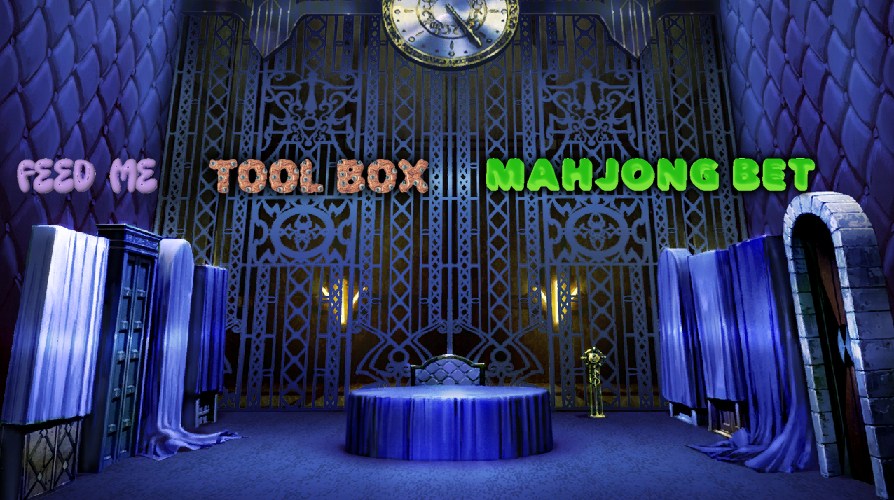
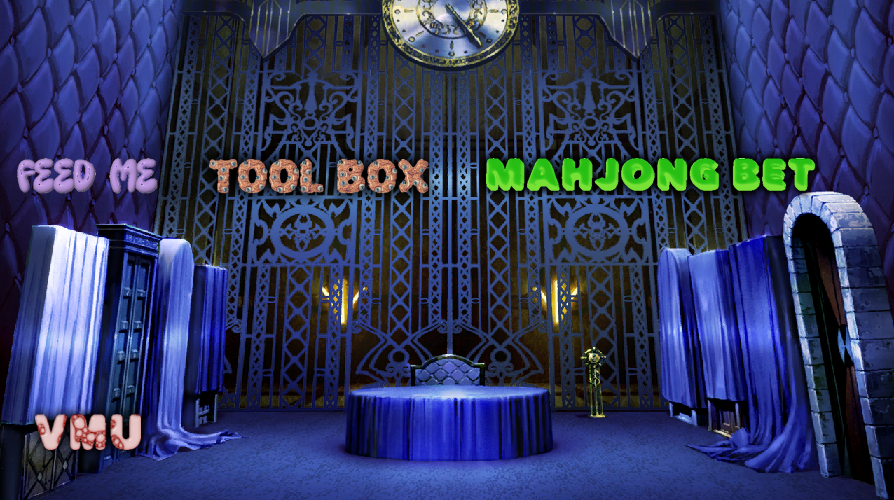
Finished VMU app and added launcher

Changed region(s): [[0.0302, 0.81, 0.1812, 0.93]]

diff --git a/GardenForms/ThePaintedWorld.Designer.cs b/GardenForms/ThePaintedWorld.Designer.cs
@@ -35,12 +35,15 @@
             trackBar1 = new TrackBar();
             locationControl = new TrackBar();
             scatterAmount = new TrackBar();
+            colourControl = new PictureBox();
+            ColourButton = new ReaLTaiizor.Controls.HopeButton();
             ((System.ComponentModel.ISupportInitialize)VMU).BeginInit();
             ((System.ComponentModel.ISupportInitialize)backClickableSection).BeginInit();
             ((System.ComponentModel.ISupportInitialize)drawingZone).BeginInit();
             ((System.ComponentModel.ISupportInitialize)trackBar1).BeginInit();
             ((System.ComponentModel.ISupportInitialize)locationControl).BeginInit();
             ((System.ComponentModel.ISupportInitialize)scatterAmount).BeginInit();
+            ((System.ComponentModel.ISupportInitialize)colourControl).BeginInit();
             SuspendLayout();
             // 
             // VMU
@@ -64,6 +67,7 @@
             backClickableSection.TabIndex = 1;
             backClickableSection.TabStop = false;
             backClickableSection.Click += backClickableSection_Click;
+            backClickableSection.MouseEnter += backButton_Enter;
             backClickableSection.MouseLeave += backButton_StopHover;
             backClickableSection.MouseHover += backButton_Hover;
             // 
@@ -119,12 +123,44 @@
             scatterAmount.TickStyle = TickStyle.None;
             scatterAmount.Scroll += scatterAmount_Scroll;
             // 
+            // colourControl
+            // 
+            colourControl.Image = Properties.Resources.colour;
+            colourControl.Location = new Point(227, 139);
+            colourControl.Name = "colourControl";
+            colourControl.Size = new Size(86, 30);
+            colourControl.TabIndex = 6;
+            colourControl.TabStop = false;
+            colourControl.Click += colourControl_Click;
+            // 
+            // ColourButton
+            // 
+            ColourButton.BorderColor = Color.FromArgb(220, 223, 230);
+            ColourButton.ButtonType = ReaLTaiizor.Util.HopeButtonType.Primary;
+            ColourButton.DangerColor = Color.FromArgb(245, 108, 108);
+            ColourButton.DefaultColor = Color.FromArgb(255, 255, 255);
+            ColourButton.Font = new Font("MS Mincho", 12F, FontStyle.Regular, GraphicsUnit.Point, 0);
+            ColourButton.HoverTextColor = Color.FromArgb(48, 49, 51);
+            ColourButton.InfoColor = Color.FromArgb(144, 147, 153);
+            ColourButton.Location = new Point(389, 120);
+            ColourButton.Name = "ColourButton";
+            ColourButton.PrimaryColor = Color.FromArgb(64, 158, 255);
+            ColourButton.Size = new Size(73, 40);
+            ColourButton.SuccessColor = Color.FromArgb(103, 194, 58);
+            ColourButton.TabIndex = 7;
+            ColourButton.Text = "Colour";
+            ColourButton.TextColor = Color.White;
+            ColourButton.WarningColor = Color.FromArgb(230, 162, 60);
+            ColourButton.Click += ColourButton_Click;
+            // 
             // ThePaintedWorld
             // 
             AutoScaleDimensions = new SizeF(7F, 15F);
             AutoScaleMode = AutoScaleMode.Font;
             BackgroundImage = Properties.Resources.macwindowmask;
             ClientSize = new Size(546, 653);
+            Controls.Add(ColourButton);
+            Controls.Add(colourControl);
             Controls.Add(locationControl);
             Controls.Add(trackBar1);
             Controls.Add(drawingZone);
@@ -143,6 +179,7 @@
             ((System.ComponentModel.ISupportInitialize)trackBar1).EndInit();
             ((System.ComponentModel.ISupportInitialize)locationControl).EndInit();
             ((System.ComponentModel.ISupportInitialize)scatterAmount).EndInit();
+            ((System.ComponentModel.ISupportInitialize)colourControl).EndInit();
             ResumeLayout(false);
             PerformLayout();
         }
@@ -156,5 +193,7 @@
         private TrackBar trackBar1;
         private TrackBar locationControl;
         private TrackBar scatterAmount;
+        private PictureBox colourControl;
+        private ReaLTaiizor.Controls.HopeButton ColourButton;
     }
 }

diff --git a/GardenForms/MainScreen.Designer.cs b/GardenForms/MainScreen.Designer.cs
@@ -33,17 +33,19 @@
             FeedMeCard = new PictureBox();
             GardenToolsBox = new PictureBox();
             mahjongBetBox = new PictureBox();
+            VMUcard = new PictureBox();
             ((System.ComponentModel.ISupportInitialize)pictureBox1).BeginInit();
             ((System.ComponentModel.ISupportInitialize)FeedMeCard).BeginInit();
             ((System.ComponentModel.ISupportInitialize)GardenToolsBox).BeginInit();
             ((System.ComponentModel.ISupportInitialize)mahjongBetBox).BeginInit();
+            ((System.ComponentModel.ISupportInitialize)VMUcard).BeginInit();
             SuspendLayout();
             // 
             // pictureBox1
             // 
             pictureBox1.BackgroundImage = Properties.Resources.bg0061;
             pictureBox1.Dock = DockStyle.Fill;
-            pictureBox1.Image = Properties.Resources.bg006;
+            pictureBox1.Image = Properties.Resources.bg00611;
             pictureBox1.Location = new Point(0, 0);
             pictureBox1.Name = "pictureBox1";
             pictureBox1.Size = new Size(874, 457);
@@ -61,6 +63,7 @@
             FeedMeCard.TabIndex = 2;
             FeedMeCard.TabStop = false;
             FeedMeCard.Click += FeedMeCard_Click;
+            FeedMeCard.MouseEnter += FeedMeCard_Enter;
             FeedMeCard.MouseLeave += FeedMeCard_Leave;
             FeedMeCard.MouseHover += FeedMeCard_Hover;
             // 
@@ -74,6 +77,7 @@
             GardenToolsBox.TabIndex = 3;
             GardenToolsBox.TabStop = false;
             GardenToolsBox.Click += GardenToolsBox_Click;
+            GardenToolsBox.MouseEnter += GardenToolsBox_Enter;
             GardenToolsBox.MouseLeave += GardenToolsBox_Leave;
             GardenToolsBox.MouseHover += GardenToolsBox_Hover;
             // 
@@ -87,14 +91,29 @@
             mahjongBetBox.TabIndex = 4;
             mahjongBetBox.TabStop = false;
             mahjongBetBox.Click += mahjongBetBox_Click;
+            mahjongBetBox.MouseEnter += mahjongBetBox_Enter;
             mahjongBetBox.MouseLeave += mahjongBetBox_MouseLeave;
             mahjongBetBox.MouseHover += mahjongBetBox_Hover;
+            // 
+            // VMUcard
+            // 
+            VMUcard.BackgroundImage = Properties.Resources.MahjongCard;
+            VMUcard.Image = Properties.Resources.VMUCard;
+            VMUcard.Location = new Point(39, 274);
+            VMUcard.Name = "VMUcard";
+            VMUcard.Size = new Size(98, 126);
+            VMUcard.TabIndex = 5;
+            VMUcard.TabStop = false;
+            VMUcard.Click += VMUcard_Click;
+            VMUcard.MouseEnter += VMU_MouseEnter;
+            VMUcard.MouseLeave += VMU_MouseLeave;
             // 
             // MainScreen
             // 
             AutoScaleDimensions = new SizeF(7F, 15F);
             AutoScaleMode = AutoScaleMode.Font;
             ClientSize = new Size(874, 457);
+            Controls.Add(VMUcard);
             Controls.Add(mahjongBetBox);
             Controls.Add(GardenToolsBox);
             Controls.Add(FeedMeCard);
@@ -111,6 +130,7 @@
             ((System.ComponentModel.ISupportInitialize)FeedMeCard).EndInit();
             ((System.ComponentModel.ISupportInitialize)GardenToolsBox).EndInit();
             ((System.ComponentModel.ISupportInitialize)mahjongBetBox).EndInit();
+            ((System.ComponentModel.ISupportInitialize)VMUcard).EndInit();
             ResumeLayout(false);
         }
 
@@ -119,5 +139,6 @@
         private PictureBox FeedMeCard;
         private PictureBox GardenToolsBox;
         private PictureBox mahjongBetBox;
+        private PictureBox VMUcard;
     }
 }

diff --git a/GardenForms/ThePaintedWorld.cs b/GardenForms/ThePaintedWorld.cs
@@ -24,6 +24,7 @@ namespace GardenForms
         int currentPositionDown = 1;
         float currentTranslationx = 0F;
         float currentTranslationy = 0F;
+        int colourSelection = 1;
         private void VMU_MouseDown(object sender, MouseEventArgs e)
         {
             mouseDown = true;
@@ -91,13 +92,31 @@ namespace GardenForms
             Rectangle rect = new Rectangle(currentPositionLeft, currentPositionDown, currentSize, currentSize);
             g.RotateTransform(currentRotationAngle, MatrixOrder.Append);
             g.TranslateTransform(currentTranslationx, currentTranslationy);
-            LinearGradientBrush lBrush = new LinearGradientBrush(rect, Color.Red, Color.Yellow, LinearGradientMode.BackwardDiagonal);
-            g.FillRectangle(lBrush, rect);
+            LinearGradientBrush col1brush = new LinearGradientBrush(rect, Color.Red, Color.Yellow, LinearGradientMode.BackwardDiagonal);
+            LinearGradientBrush col2brush = new LinearGradientBrush(rect, Color.LimeGreen, Color.Purple, LinearGradientMode.BackwardDiagonal);
+            LinearGradientBrush col3brush = new LinearGradientBrush(rect, Color.DeepSkyBlue, Color.White, LinearGradientMode.BackwardDiagonal);
+            LinearGradientBrush col4brush = new LinearGradientBrush(rect, Color.BlueViolet, Color.Orange, LinearGradientMode.BackwardDiagonal);
+
+            switch (colourSelection)
+            {
+                case 1:
+                    g.FillRectangle(col1brush, rect);
+                    break;
+                case 2:
+                    g.FillRectangle(col2brush, rect);
+                    break;
+                case 3:
+                    g.FillRectangle(col3brush, rect);
+                    break;
+                case 4:
+                    g.FillRectangle(col4brush, rect);
+                    break;
+            }
         }
 
         private void drawingZone_Click(object sender, EventArgs e)
         {
-            
+
         }
 
         private void trackBar1_Scroll(object sender, EventArgs e)
@@ -115,6 +134,28 @@ namespace GardenForms
         {
             currentTranslationx = scatterAmount.Value;
             currentTranslationy = scatterAmount.Value;
+        }
+
+        private void colourControl_Click(object sender, EventArgs e)
+        {
+
+        }
+
+        private void ColourButton_Click(object sender, EventArgs e)
+        {
+            if (colourSelection < 4)
+            {
+                colourSelection++;
+            }
+            else
+            {
+                colourSelection = 1;
+            }
+        }
+
+        private void backButton_Enter(object sender, EventArgs e)
+        {
+            backClickableSection.Image = Properties.Resources.backsectionHighLight;
         }
     }
 }

diff --git a/GardenForms/Properties/Resources.Designer.cs b/GardenForms/Properties/Resources.Designer.cs
@@ -123,6 +123,26 @@ namespace GardenForms.Properties {
         /// <summary>
         ///   Looks up a localized resource of type System.Drawing.Bitmap.
         /// </summary>
+        internal static System.Drawing.Bitmap bg00611 {
+            get {
+                object obj = ResourceManager.GetObject("bg00611", resourceCulture);
+                return ((System.Drawing.Bitmap)(obj));
+            }
+        }
+        
+        /// <summary>
+        ///   Looks up a localized resource of type System.Drawing.Bitmap.
+        /// </summary>
+        internal static System.Drawing.Bitmap colour {
+            get {
+                object obj = ResourceManager.GetObject("colour", resourceCulture);
+                return ((System.Drawing.Bitmap)(obj));
+            }
+        }
+        
+        /// <summary>
+        ///   Looks up a localized resource of type System.Drawing.Bitmap.
+        /// </summary>
         internal static System.Drawing.Bitmap exit {
             get {
                 object obj = ResourceManager.GetObject("exit", resourceCulture);
@@ -456,6 +476,26 @@ namespace GardenForms.Properties {
         internal static System.Drawing.Bitmap vmuback {
             get {
                 object obj = ResourceManager.GetObject("vmuback", resourceCulture);
+                return ((System.Drawing.Bitmap)(obj));
+            }
+        }
+        
+        /// <summary>
+        ///   Looks up a localized resource of type System.Drawing.Bitmap.
+        /// </summary>
+        internal static System.Drawing.Bitmap VMUCard {
+            get {
+                object obj = ResourceManager.GetObject("VMUCard", resourceCulture);
+                return ((System.Drawing.Bitmap)(obj));
+            }
+        }
+        
+        /// <summary>
+        ///   Looks up a localized resource of type System.Drawing.Bitmap.
+        /// </summary>
+        internal static System.Drawing.Bitmap VMUCardHighlight {
+            get {
+                object obj = ResourceManager.GetObject("VMUCardHighlight", resourceCulture);
                 return ((System.Drawing.Bitmap)(obj));
             }
         }

diff --git a/GardenForms/MainScreen.cs b/GardenForms/MainScreen.cs
@@ -61,8 +61,7 @@ namespace GardenForms
 
         private void pictureBox1_Click(object sender, EventArgs e)
         {
-            ThePaintedWorld PaintingDemo = new ThePaintedWorld();
-            PaintingDemo.ShowDialog();
+            
         }
 
         private void mahjongBetBox_Click(object sender, EventArgs e)
@@ -79,6 +78,37 @@ namespace GardenForms
         private void mahjongBetBox_MouseLeave(object sender, EventArgs e)
         {
             mahjongBetBox.Image = Properties.Resources.MahjongCard;
+        }
+
+        private void VMU_MouseEnter(object sender, EventArgs e)
+        {
+            VMUcard.Image = Properties.Resources.VMUCardHighlight;
+        }
+
+        private void VMU_MouseLeave(object sender, EventArgs e)
+        {
+            VMUcard.Image = Properties.Resources.VMUCard;
+        }
+
+        private void FeedMeCard_Enter(object sender, EventArgs e)
+        {
+            FeedMeCard.Image = Properties.Resources.I_B_CARD14_TMX_1BRIGHT;
+        }
+
+        private void GardenToolsBox_Enter(object sender, EventArgs e)
+        {
+            GardenToolsBox.Image = Properties.Resources.ToolBoxCard_bright;
+        }
+
+        private void mahjongBetBox_Enter(object sender, EventArgs e)
+        {
+            mahjongBetBox.Image = Properties.Resources.MahjongCard_bright;
+        }
+
+        private void VMUcard_Click(object sender, EventArgs e)
+        {
+            ThePaintedWorld PaintingDemo = new ThePaintedWorld();
+            PaintingDemo.ShowDialog();
         }
     }
 }
